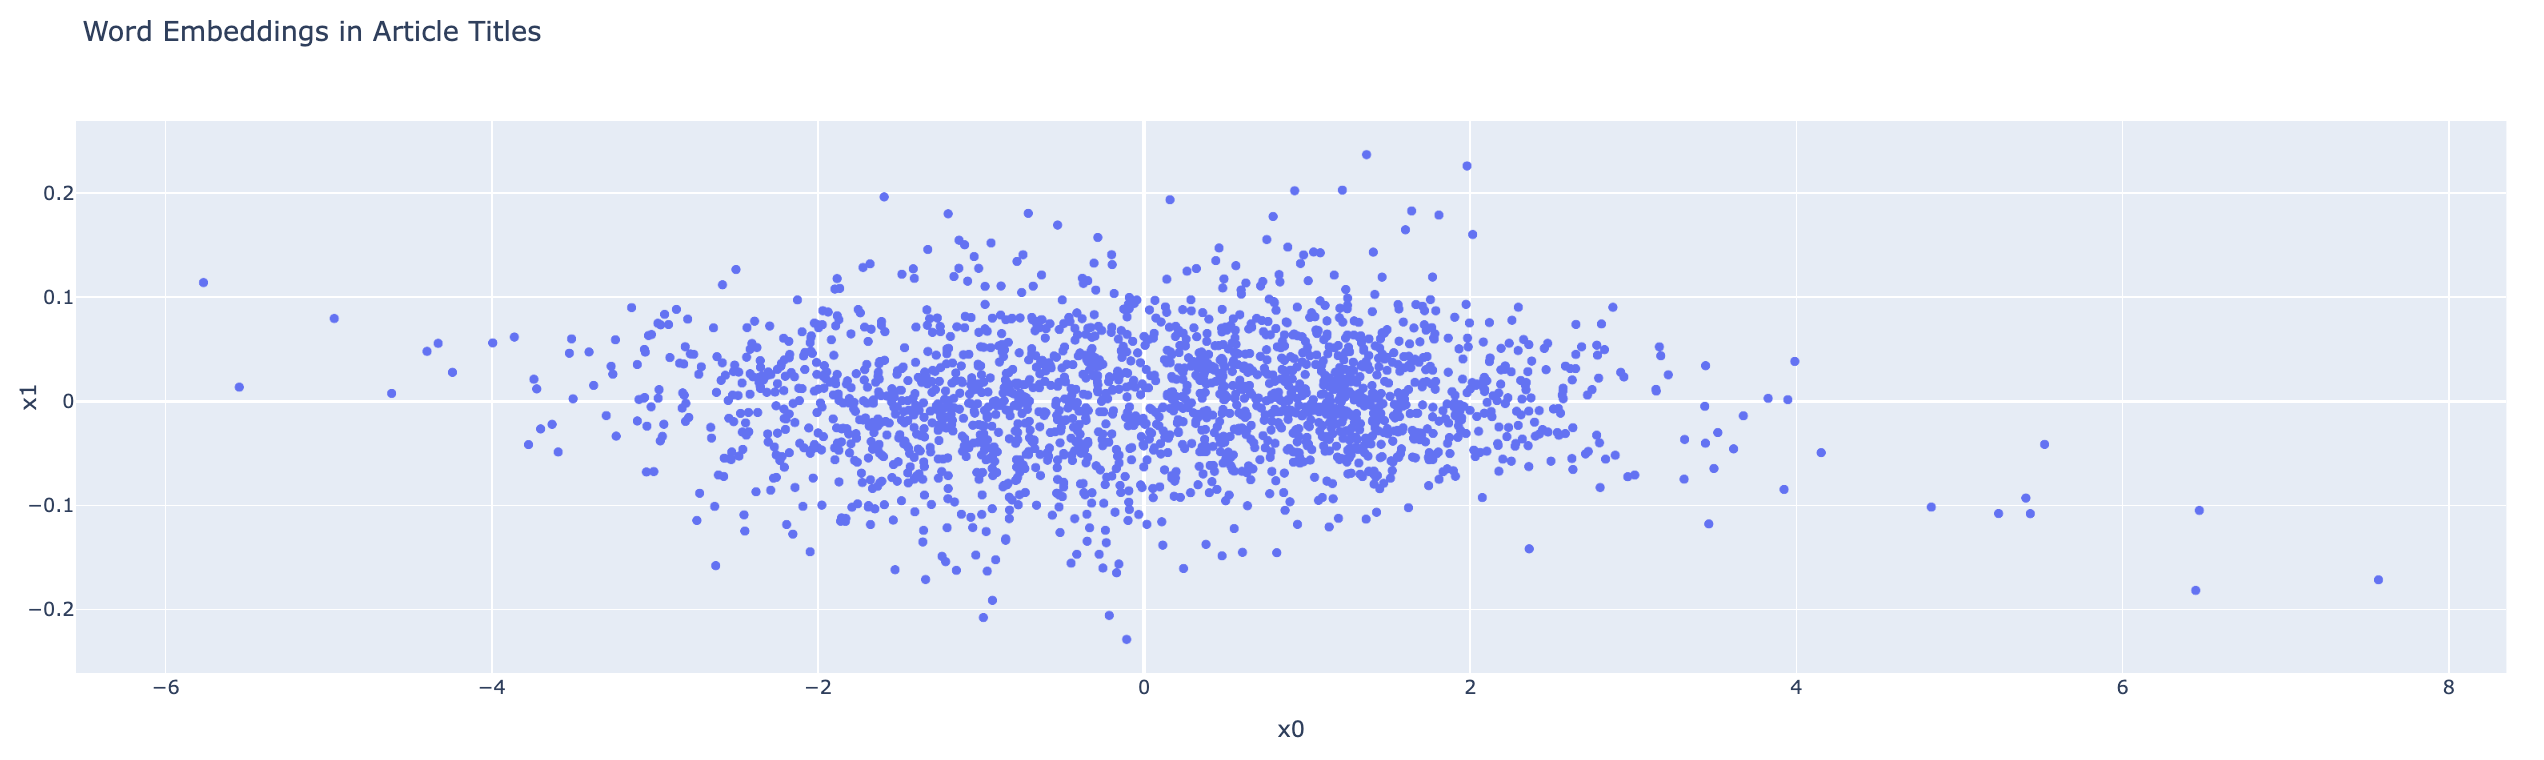
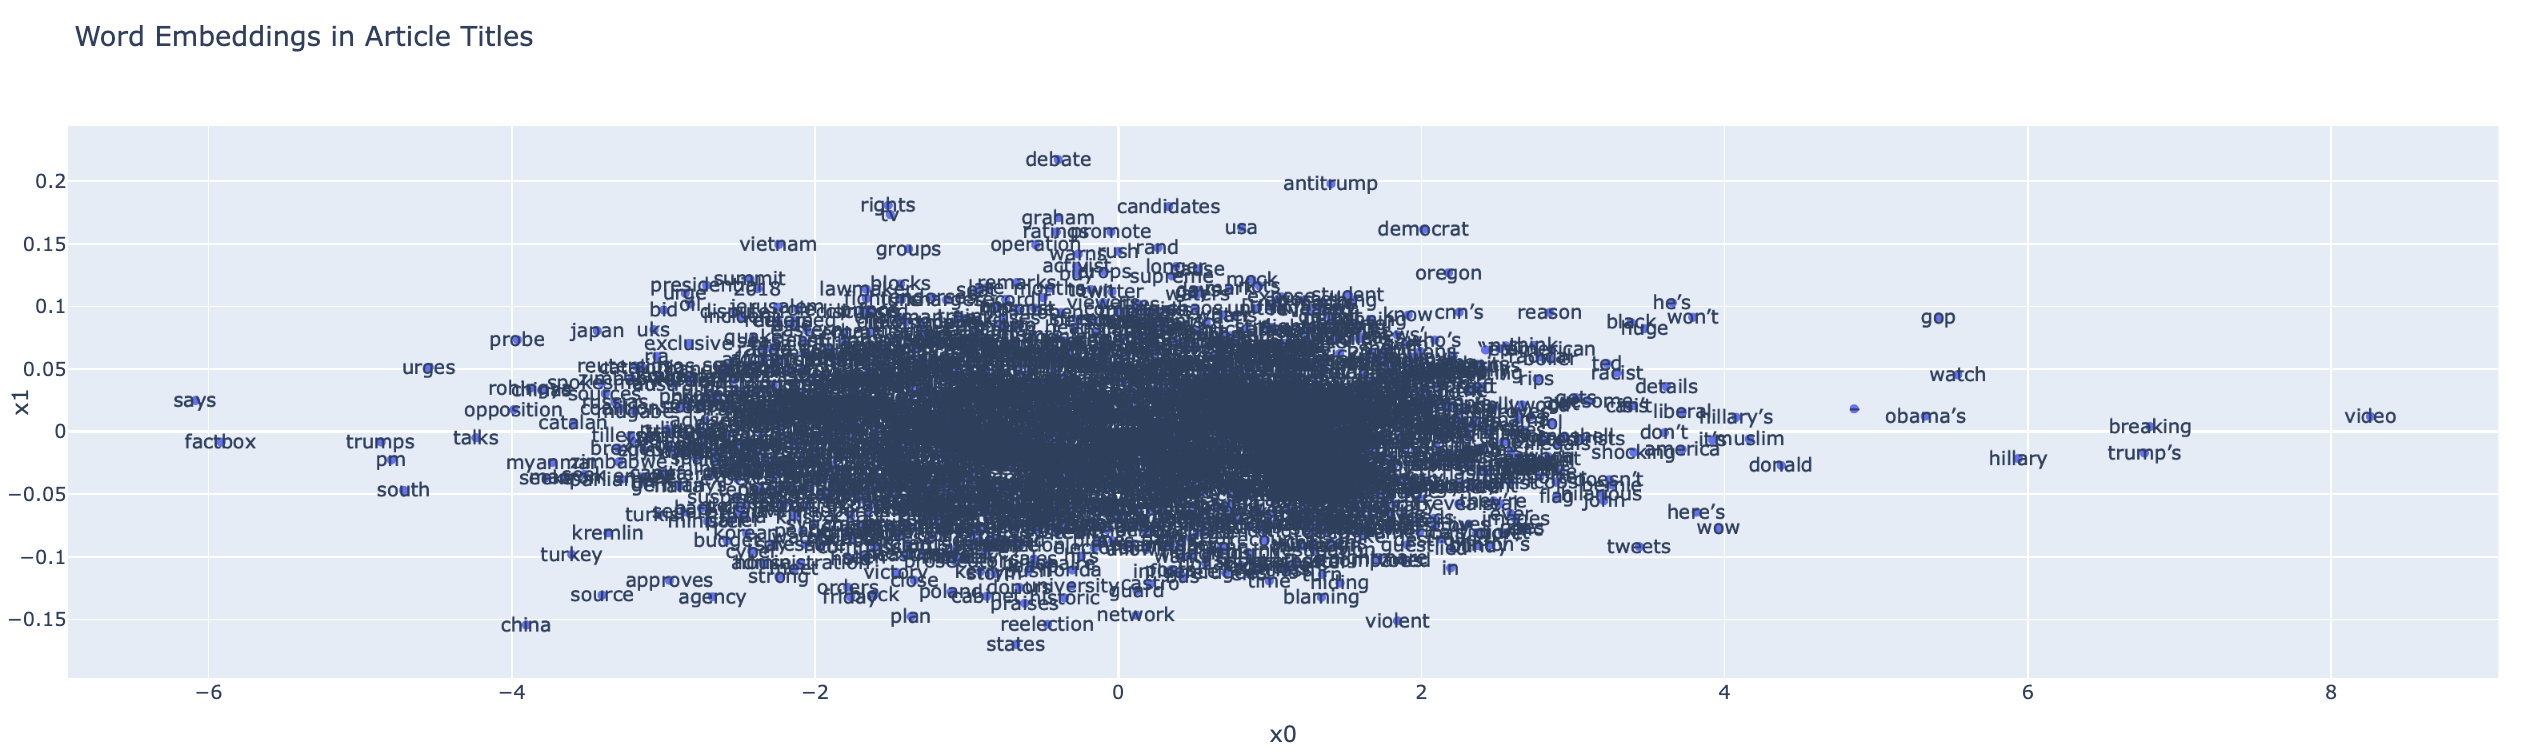
done

diff --git a/_posts/2022-05-16-HW-4.md b/_posts/2022-05-16-HW-4.md
@@ -323,5 +323,11 @@ fig = px.scatter(embedding_df,
 fig.show()
 write_html(fig, "word_embedding_plotly.html")
 ```
-skefuhsuhf 14
-This visualization plots all the words in our data over the first two principal components (x0 and x1). Although here the plot is static, when you run this code in a python environment, the plot is interactive, and thus allows you to distinguish the words by hovering over them.
+![hw4.14.png](/images/hw4.14.png)
+This visualization plots all the words in our data over the first two principal components (x0 and x1). Although here the plot is static, when you run this code in a python environment, the plot is interactive, and thus allows you to distinguish the words by hovering over them. However, we can still make out the words on the extremes.
+
+From this visualization, we see that the words "video", "breaking", "wow","watch", "trump's", "hillary", and "obama's" all appear on the far left, and from the common context in which we see these words in pop culture or news, we can interpret that there is most likely an association between these words and fake news, perhaps used to defame certain politicians.
+
+We also see words like "factbox","urges","south", "opposition","source" and the names of various countries on the left, which seem to be less commonly used in fake news and more related to actual current events. Thus we could interpret their location as signifying an association with real news.
+
+Interestingly "trump" also appears on the far left, most likely this could be a result of many news articles, fake and real, referring to him, however the distinction that "trump's" is on the right highlights a key difference between how he might be referenced in fake vs real articles.
